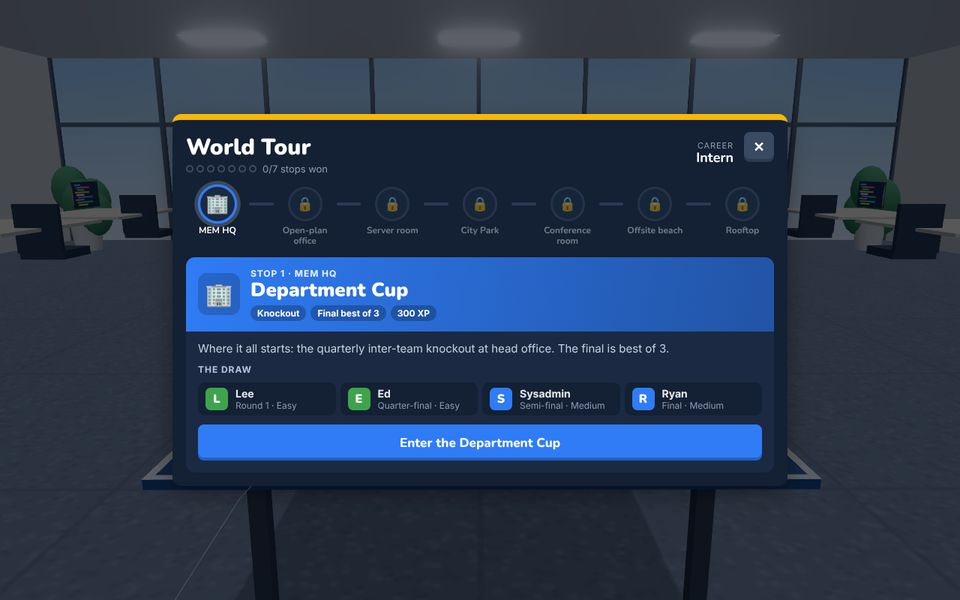
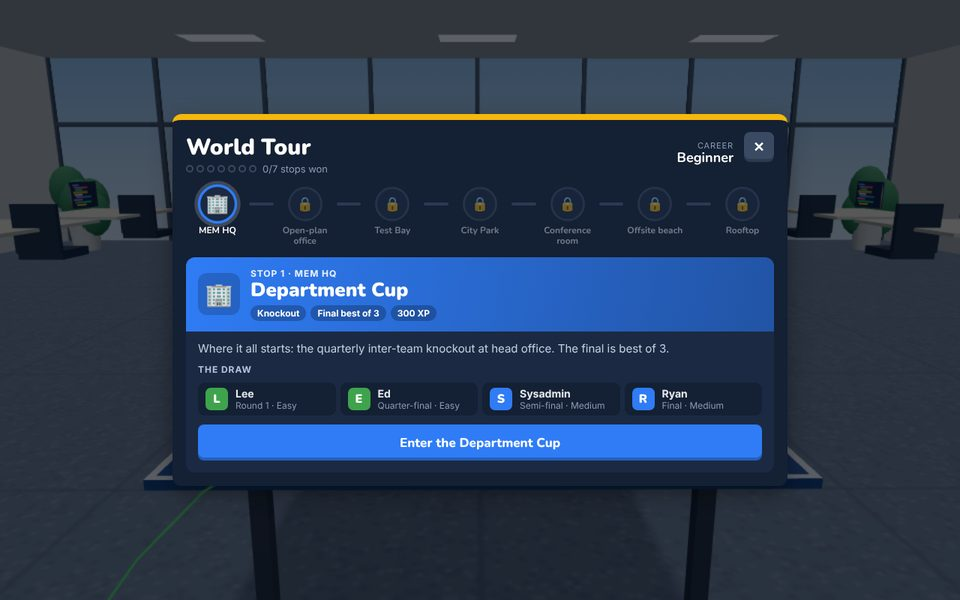
Refresh MEM Table Tennis screenshots with the new player models
Claude-Session: https://claude.ai/code/session_01QEaTJGrc3Q3FthWFesx3st

diff --git a/index.html b/index.html
@@ -161,7 +161,7 @@
       </a>
 
       <a class="card soon" href="https://mem-table-tennis.vercel.app">
-        <div class="shot multi"><img class="on" src="screenshots/mem-table-tennis.jpg" alt="MEM Table Tennis title screen in the MEM office, with Lee picked as the player" loading="lazy"><img src="screenshots/mem-table-tennis-gameplay.jpg" alt="A quick match against the AI, the ball arcing over the net with its trail showing" loading="lazy"><img src="screenshots/mem-table-tennis-players.jpg" alt="Choosing your player: a 3D turntable of Lee with his stat bars and rubbers" loading="lazy"><img src="screenshots/mem-table-tennis-world-tour.jpg" alt="The World Tour map, starting with the Department Cup at MEM HQ" loading="lazy"><img src="screenshots/mem-table-tennis-beach.jpg" alt="A rally against Bryony at the offsite beach" loading="lazy"><img src="screenshots/mem-table-tennis-park.jpg" alt="Playing Ed in the City Park venue" loading="lazy"><img src="screenshots/mem-table-tennis-server-room.jpg" alt="Lining up a serve against Ryan in the server room" loading="lazy"><span class="badge">Early access</span></div>
+        <div class="shot multi"><img class="on" src="screenshots/mem-table-tennis.jpg" alt="MEM Table Tennis title screen in the MEM office, with Lee picked as the player" loading="lazy"><img src="screenshots/mem-table-tennis-gameplay.jpg" alt="Bryony serves in the MEM office, the ball arcing over the net towards the target ring" loading="lazy"><img src="screenshots/mem-table-tennis-players.jpg" alt="Choosing your player: a 3D turntable of Lee with his stats, blade and rubbers" loading="lazy"><img src="screenshots/mem-table-tennis-world-tour.jpg" alt="The World Tour map, starting with the Department Cup at MEM HQ" loading="lazy"><img src="screenshots/mem-table-tennis-beach.jpg" alt="Will returns a shot at the offsite beach" loading="lazy"><img src="screenshots/mem-table-tennis-park.jpg" alt="Ed serves in the City Park venue" loading="lazy"><img src="screenshots/mem-table-tennis-server-room.jpg" alt="Ryan serves among the stacked shelves of the Test Bay" loading="lazy"><span class="badge">Early access</span></div>
         <div class="body">
           <h2>MEM Table Tennis</h2>
           <p class="tag">3D table tennis built around spin, pace and office politics. Flick the mouse to loop, chop, smash and hook the ball, take on the AI in quick matches or a World Tour, sharpen up with training drills, or play friends online in singles or doubles.</p>
